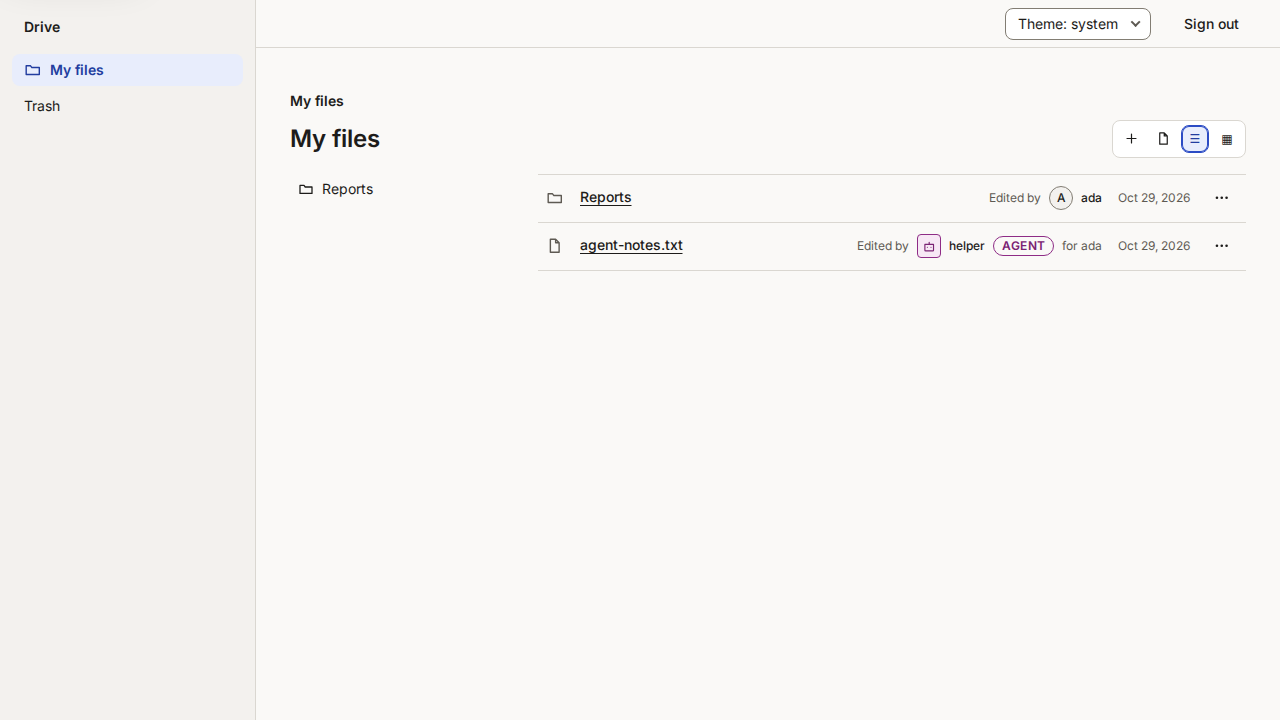
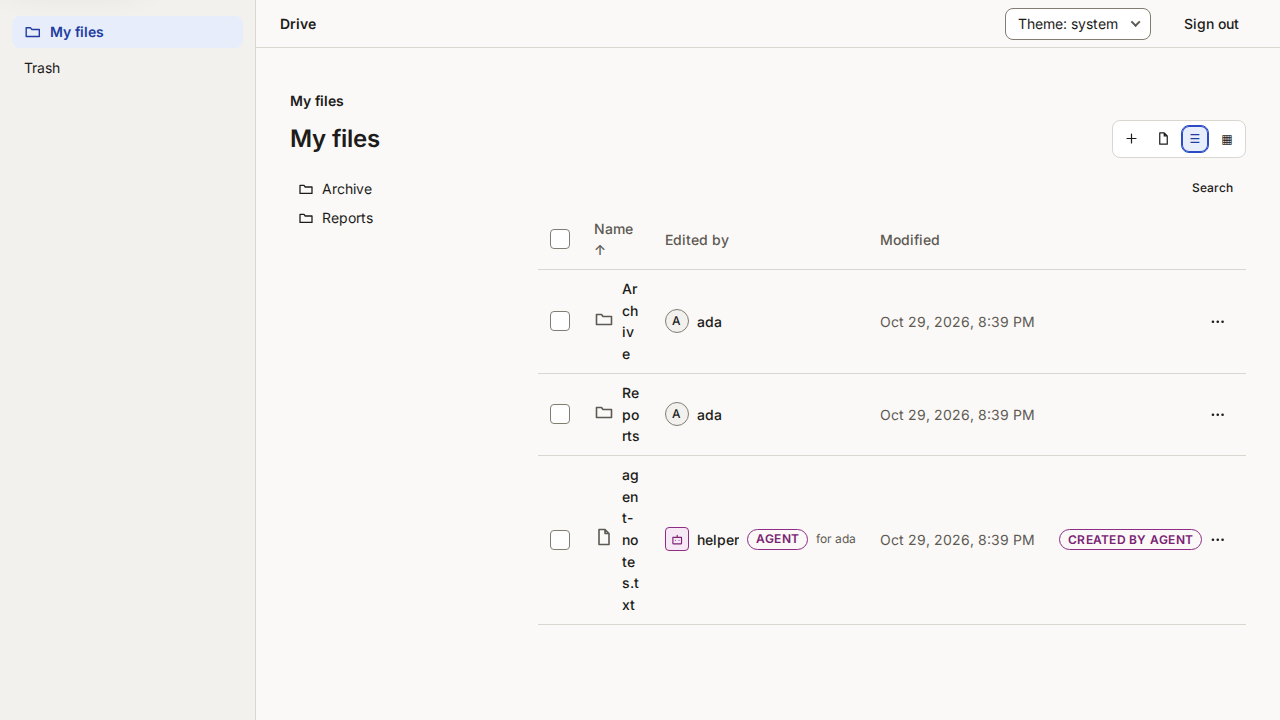
[DRIVE-75] Restyle the web UI as a calm list (#76)
* [DRIVE-75] Restyle the web UI as a calm list

Show files in a table with sortable columns, an expandable search,
check boxes with a bottom bar for bulk trash, a no-match empty state,
and a Share button beside the folder title. Bump to 0.9.0.

* [DRIVE-75] Fix review findings on the list view

Keep focus clear of the bulk bar, return focus after the search
closes, show the trash date, use class hooks for columns, clear the
selection on a view change, announce search results, style the mixed
check box, and survive a bad date.

diff --git a/ui/App.tsx b/ui/App.tsx
@@ -3,6 +3,7 @@ import {
   AppShell, Button, Dialog, DialogClose, EmptyState, FileIcon, FileList, FileRow, FolderIcon, IconButton, Input, Menu, MoreIcon, PlusIcon, PresenceChip,
   Select, ShareDialog, SidebarNav, Toolbar, ToolbarButton, useTheme, useToast, type LinkExpiry, type PresenceEntry, type ShareLink, type ShareRole,
 } from "agentic-design/react";
+import { BulkBar, ExpandableSearch, ItemTable, sortItems, type Sort, type SortKey } from "./browse.js";
 import { createClient, DriveApiError, type DriveClient, type Item, type Role } from "../src/client.js";
 
 const TOKEN_KEY = "agentic-drive-token";
@@ -141,6 +142,9 @@ function Browser({ client, loc, origin }: { client: DriveClient; loc: string; or
   const [dlg, setDlg] = useState<Dlg | null>(null);
   const [drag, setDrag] = useState(false);
   const [busy, setBusy] = useState(false);
+  const [query, setQuery] = useState("");
+  const [sort, setSort] = useState<Sort>({ key: "name", dir: "asc" });
+  const [selected, setSelected] = useState<Set<string>>(new Set());
   const input = useRef<HTMLInputElement>(null);
   const [state, reload] = useLoad(async () => {
     const root = await client.stat("/");
@@ -175,13 +179,28 @@ function Browser({ client, loc, origin }: { client: DriveClient; loc: string; or
     setBusy(false);
   };
   const onDrop = (e: DragEvent) => { e.preventDefault(); setDrag(false); if (e.dataTransfer.files.length) void upload(e.dataTransfer.files); };
-  const setViewMode = (v: "list" | "grid") => { localStorage.setItem("agentic-drive-view", v); setView(v); };
+  const onSort = (key: SortKey) => setSort((s) => ({ key, dir: s.key === key && s.dir === "asc" ? "desc" : "asc" }));
+  const trashSelected = async (ids: string[]) => {
+    setBusy(true);
+    const results = await Promise.allSettled(ids.map((id) => client.trash(id)));
+    const failed = results.filter((r) => r.status === "rejected");
+    if (failed.length) toast({ title: `${failed.length} of ${ids.length} items did not move`, description: errorText((failed[0] as PromiseRejectedResult).reason), tone: "danger" });
+    else toast({ title: `Moved ${ids.length} ${ids.length === 1 ? "item" : "items"} to trash`, tone: "success" });
+    setSelected(new Set());
+    setBusy(false);
+    reload();
+  };
+  const setViewMode = (v: "list" | "grid") => {
+    setSelected(new Set()); localStorage.setItem("agentic-drive-view", v); setView(v); };
 
   return (
-    <section onDragOver={(e) => { e.preventDefault(); setDrag(true); }} onDragLeave={(e) => { if (!e.currentTarget.contains(e.relatedTarget as Node | null)) setDrag(false); }} onDrop={onDrop} className={drag ? "drive-drop drive-drop--over" : "drive-drop"} aria-label="Files">
+    <section onDragOver={(e) => { e.preventDefault(); setDrag(true); }} onDragLeave={(e) => { if (!e.currentTarget.contains(e.relatedTarget as Node | null)) setDrag(false); }} onDrop={onDrop} className={`drive-drop${drag ? " drive-drop--over" : ""}${view === "list" && selected.size ? " drive-drop--bulk" : ""}`} aria-label="Files">
       <Status state={state} retry={reload}>
         {state.status === "ok" && (() => {
-          const { folder, root, crumbs, items, tree } = state.data;
+          const { folder, root, crumbs, tree } = state.data;
+          const needle = query.trim().toLowerCase();
+          const items = sortItems(state.data.items.filter((i) => i.name.toLowerCase().includes(needle)), sort);
+          const picked = items.filter((i) => selected.has(i.id)).map((i) => i.id);
           const actions = (item: Item) => (
             <>
               <MachineLabel item={item} />
@@ -214,7 +233,10 @@ function Browser({ client, loc, origin }: { client: DriveClient; loc: string; or
                 </ol>
               </nav>
               <div className="drive-bar">
-                <h1>{folder.id === root.id ? "My files" : folder.name}</h1>
+                <div className="drive-title">
+                  <h1>{folder.id === root.id ? "My files" : folder.name}</h1>
+                  {folder.id !== root.id && <Button variant="secondary" size="sm" onClick={() => setDlg({ kind: "share", item: folder })}>Share</Button>}
+                </div>
                 <Toolbar label="Folder actions">
                   <ToolbarButton label="New folder" icon={<PlusIcon />} onClick={() => setDlg({ kind: "mkdir" })} />
                   <ToolbarButton label="Upload files" icon={<FileIcon />} onClick={() => input.current?.click()} disabled={busy} />
@@ -226,12 +248,14 @@ function Browser({ client, loc, origin }: { client: DriveClient; loc: string; or
               <div className="drive-split">
               <nav aria-label="Folders" className="drive-folders">{level(root.id)}</nav>
               <div>
-              {items.length === 0 ? (
+              <div className="drive-tools"><ExpandableSearch value={query} onChange={setQuery} /></div>
+              <p role="status" className="drive-sr">{needle ? `${items.length} of ${state.data.items.length} items match` : ""}</p>
+              {state.data.items.length === 0 ? (
                 <EmptyState title="This folder is empty" description="Drop files here, or use Upload files." action={<Button onClick={() => input.current?.click()} disabled={busy}>Upload files</Button>} />
+              ) : items.length === 0 ? (
+                <EmptyState title="Nothing matches" description={`No item in this folder has “${query.trim()}” in its name.`} action={<Button onClick={() => setQuery("")}>Clear search</Button>} />
               ) : view === "list" ? (
-                <FileList label={`Items in ${folder.name || "My files"}`}>
-                  {items.map((i) => <FileRow key={i.id} name={i.name} href={href(i)} kind={i.kind === "folder" ? "folder" : "file"} modified={new Date(i.updatedAt)} editedBy={who(i.updatedBy, i.owner)} actions={actions(i)} />)}
-                </FileList>
+                <ItemTable label={`Items in ${folder.name || "My files"}`} items={items} sort={sort} onSort={onSort} selected={selected} onSelect={setSelected} href={href} who={who} actions={actions} />
               ) : (
                 <ul className="drive-grid" aria-label={`Items in ${folder.name || "My files"}`}>
                   {items.map((i) => (
@@ -246,6 +270,7 @@ function Browser({ client, loc, origin }: { client: DriveClient; loc: string; or
               )}
               </div>
               </div>
+              {view === "list" && <BulkBar count={picked.length} busy={busy} onTrash={() => void trashSelected(picked)} onClear={() => setSelected(new Set())} />}
               {dlg?.kind === "mkdir" && <Prompt open title="New folder" label="Folder name" initial="" submit="Create" onClose={() => setDlg(null)} onSubmit={(name) => act(() => client.mkdir(folder.id === root.id ? `/${name}` : `${folder.id}/${name}`), `Created ${name}`)} />}
               {dlg?.kind === "rename" && <Prompt open title="Rename" label="New name" initial={dlg.item.name} submit="Rename" onClose={() => setDlg(null)} onSubmit={(name) => act(() => client.move(dlg.item.id, dlg.item.parentId, { name }), `Renamed to ${name}`)} />}
               {dlg?.kind === "move" && <MoveDialog client={client} item={dlg.item} onClose={() => setDlg(null)} onMove={(to) => act(() => client.move(dlg.item.id, to), `Moved ${dlg.item.name}`)} />}
@@ -352,9 +377,13 @@ function Sharing({ client, item, origin, onClose }: { client: DriveClient; item:
   );
 }
 
+const trashedAt = (i: Item) => i.trashedAt ?? i.updatedAt;
+
 function TrashView({ client }: { client: DriveClient }) {
   const toast = useToast();
   const [state, reload] = useLoad(() => client.listTrash());
+  const [sort, setSort] = useState<Sort>({ key: "name", dir: "asc" });
+  const onSort = (key: SortKey) => setSort((s) => ({ key, dir: s.key === key && s.dir === "asc" ? "desc" : "asc" }));
   const restore = async (i: Item) => {
     try { await client.restore(i.id, { onConflict: "rename" }); toast({ title: `Restored ${i.name}`, tone: "success" }); } catch (e) { toast({ title: "Could not restore", description: errorText(e), tone: "danger" }); }
     reload();
@@ -364,9 +393,7 @@ function TrashView({ client }: { client: DriveClient }) {
       <h1>Trash</h1>
       <Status state={state} retry={reload}>
         {state.status === "ok" && (state.data.length === 0 ? <EmptyState title="The trash is empty" description="Items you move to the trash show up here." /> : (
-          <FileList label="Items in the trash">
-            {[...state.data].sort(byName).map((i) => <FileRow key={i.id} name={i.name} href="#/trash" kind={i.kind === "folder" ? "folder" : "file"} modified={new Date(i.trashedAt ?? i.updatedAt)} editedBy={who(i.updatedBy, i.owner)} actions={<><MachineLabel item={i} /><Button size="sm" onClick={() => void restore(i)}>{`Restore ${i.name}`}</Button></>} />)}
-          </FileList>
+          <ItemTable label="Items in the trash" items={sortItems(state.data, sort, trashedAt)} dateOf={trashedAt} sort={sort} onSort={onSort} href={() => "#/trash"} who={who} actions={(i) => <><MachineLabel item={i} /><Button size="sm" onClick={() => void restore(i)}>{`Restore ${i.name}`}</Button></>} />
         ))}
       </Status>
     </section>
@@ -413,12 +440,14 @@ function SharedView({ client, id, linkToken }: { client: DriveClient; id: string
       <Status state={state} retry={reload}>
         {state.status === "ok" && (
           <>
-            <h1>{state.data.item.name}</h1>
+            <div className="drive-bar">
+              <div className="drive-title"><h1>{state.data.item.name}</h1><MachineLabel item={state.data.item} /></div>
+              {state.data.item.kind !== "folder" && <Button onClick={() => void save()}>Download</Button>}
+            </div>
             <p className="drive-muted">Shared with you.</p>
-            <MachineLabel item={state.data.item} />
             {state.data.item.kind === "folder"
               ? (state.data.items.length === 0 ? <EmptyState title="This folder is empty" /> : <FileList label="Shared items">{state.data.items.map((i) => <FileRow key={i.id} name={i.name} href={`#/s/${i.id}${linkToken ? `/${linkToken}` : ""}`} kind={i.kind === "folder" ? "folder" : "file"} modified={new Date(i.updatedAt)} editedBy={who(i.updatedBy, i.owner)} actions={<MachineLabel item={i} />} />)}</FileList>)
-              : <Button onClick={() => void save()}>Download</Button>}
+              : null}
           </>
         )}
       </Status>

diff --git a/ui/browse.tsx b/ui/browse.tsx
@@ -1,0 +1,132 @@
+import { useEffect, useRef, useState, type ReactNode } from "react";
+import { Button, FileIcon, FolderIcon, PresenceChip, type PresenceEntry } from "agentic-design/react";
+import type { Item } from "../src/client.js";
+
+export type SortKey = "name" | "modified";
+/** The time a row shows and sorts by. */
+export type DateOf = (i: Item) => number;
+export type Sort = { key: SortKey; dir: "asc" | "desc" };
+
+/** Folders first, then the chosen column. A name sort keeps natural order for numbers. */
+export function sortItems(items: Item[], { key, dir }: Sort, dateOf: DateOf = (i) => i.updatedAt): Item[] {
+  const sign = dir === "asc" ? 1 : -1;
+  const by = key === "name" ? (a: Item, b: Item) => a.name.localeCompare(b.name, undefined, { numeric: true }) : (a: Item, b: Item) => dateOf(a) - dateOf(b);
+  return [...items].sort((a, b) => (a.kind === "folder" ? 0 : 1) - (b.kind === "folder" ? 0 : 1) || sign * by(a, b) || a.name.localeCompare(b.name));
+}
+
+/** A time that a bad value cannot break: a number outside the date range shows a dash. */
+function Stamp({ at }: { at: number }) {
+  const d = new Date(at);
+  return Number.isFinite(d.getTime()) ? <time dateTime={d.toISOString()}>{dateFormat.format(d)}</time> : <span>—</span>;
+}
+
+const dateFormat = new Intl.DateTimeFormat(undefined, { dateStyle: "medium", timeStyle: "short" });
+
+/** A search that opens from a button, filters by name, and closes on Escape. */
+export function ExpandableSearch({ value, onChange }: { value: string; onChange: (v: string) => void }) {
+  const [open, setOpen] = useState(false);
+  const input = useRef<HTMLInputElement>(null);
+  const trigger = useRef<HTMLButtonElement>(null);
+  const restore = useRef(false);
+  const shown = open || !!value;
+  useEffect(() => {
+    if (shown) input.current?.focus();
+    else if (restore.current) { restore.current = false; trigger.current?.focus(); }
+  }, [shown]);
+  const close = () => { restore.current = true; onChange(""); setOpen(false); };
+  if (!shown) {
+    return <Button ref={trigger} variant="ghost" size="sm" onClick={() => setOpen(true)}>Search</Button>;
+  }
+  return (
+    <div className="drive-search" role="search">
+      <input
+        ref={input} type="search" className="drive-search__input" aria-label="Search this folder" placeholder="Search this folder" value={value}
+        onChange={(e) => onChange(e.target.value)} onKeyDown={(e) => { if (e.key === "Escape") close(); }}
+      />
+      <Button variant="ghost" size="sm" onClick={close}>Close search</Button>
+    </div>
+  );
+}
+
+type TableProps = {
+  label: string;
+  items: Item[];
+  sort: Sort;
+  onSort: (key: SortKey) => void;
+  /** Leave out `onSelect` for a table with no select column. */
+  selected?: Set<string>;
+  onSelect?: (ids: Set<string>) => void;
+  href: (i: Item) => string;
+  who: (a: Item["updatedBy"], owner: string) => PresenceEntry;
+  actions: (i: Item) => ReactNode;
+  /** Defaults to the time of the last edit. */
+  dateOf?: DateOf;
+};
+
+/** The list view: a table with a select column, sortable headers, and a row menu. */
+export function ItemTable({ label, items, sort, onSort, selected = new Set(), onSelect, href, who, actions, dateOf = (i) => i.updatedAt }: TableProps) {
+  const all = items.length > 0 && items.every((i) => selected.has(i.id));
+  const some = !all && items.some((i) => selected.has(i.id));
+  const head = useRef<HTMLInputElement>(null);
+  useEffect(() => { if (head.current) head.current.indeterminate = some; }, [some]);
+  const toggle = (id: string, on: boolean) => {
+    if (!onSelect) return;
+    const next = new Set(selected);
+    if (on) next.add(id); else next.delete(id);
+    onSelect(next);
+  };
+  const th = (key: SortKey, text: string, cls?: string) => (
+    <th scope="col" className={cls} aria-sort={sort.key === key ? (sort.dir === "asc" ? "ascending" : "descending") : "none"}>
+      <button type="button" className="drive-sort" onClick={() => onSort(key)}>{text}<span aria-hidden="true">{sort.key === key ? (sort.dir === "asc" ? " ↑" : " ↓") : ""}</span></button>
+    </th>
+  );
+  return (
+    <table className="drive-table" aria-label={label}>
+      <thead>
+        <tr>
+          {onSelect && (
+            <th scope="col" className="drive-table__check">
+              <input ref={head} type="checkbox" className="agd-checkbox" aria-label="Select all items" checked={all} onChange={(e) => onSelect(e.target.checked ? new Set(items.map((i) => i.id)) : new Set())} />
+            </th>
+          )}
+          {th("name", "Name")}
+          <th scope="col" className="drive-table__who">Edited by</th>
+          {th("modified", "Modified", "drive-table__date")}
+          <th scope="col"><span className="drive-sr">Actions</span></th>
+        </tr>
+      </thead>
+      <tbody>
+        {items.map((i) => (
+          <tr key={i.id} className="drive-row" data-selected={selected.has(i.id) || undefined}>
+            {onSelect && (
+              <td className="drive-table__check">
+                <input type="checkbox" className="agd-checkbox" aria-label={`Select ${i.name}`} checked={selected.has(i.id)} onChange={(e) => toggle(i.id, e.target.checked)} />
+              </td>
+            )}
+            <td>
+              <div className="drive-table__name">
+                <span className="drive-table__icon" aria-hidden="true">{i.kind === "folder" ? <FolderIcon /> : <FileIcon />}</span>
+                <a href={href(i)}>{i.name}</a>
+              </div>
+            </td>
+            <td className="drive-table__who"><PresenceChip entry={who(i.updatedBy, i.owner)} /></td>
+            <td className="drive-table__date"><Stamp at={dateOf(i)} /></td>
+            <td className="drive-table__actions">{actions(i)}</td>
+          </tr>
+        ))}
+      </tbody>
+    </table>
+  );
+}
+
+/** Sticks to the bottom of the page while rows are selected. */
+export function BulkBar({ count, busy, onTrash, onClear }: { count: number; busy: boolean; onTrash: () => void; onClear: () => void }) {
+  if (count === 0) return null;
+  return (
+    <div role="region" aria-label="Selected items" className="drive-bulk">
+      <span role="status">{count} selected</span>
+      <Button variant="danger" size="sm" onClick={onTrash} disabled={busy}>Move to trash</Button>
+      <Button variant="ghost" size="sm" onClick={onClear}>Clear selection</Button>
+    </div>
+  );
+}

diff --git a/ui/app.css b/ui/app.css
@@ -27,3 +27,28 @@
 .drive-card__actions { display: flex; align-items: center; justify-content: space-between; gap: var(--agd-space-2); }
 .drive-root { display: grid; grid-template-columns: 12rem minmax(0, 1fr); gap: var(--agd-space-6); color: var(--agd-color-text); }
 @media (max-width: 48rem) { .drive-root { grid-template-columns: 1fr; } }
+.drive-sr { position: absolute; width: 1px; height: 1px; overflow: hidden; clip-path: inset(50%); white-space: nowrap; }
+.drive-tools { display: flex; justify-content: flex-end; margin-bottom: var(--agd-space-2); }
+.drive-search { display: flex; align-items: center; gap: var(--agd-space-2); }
+.drive-search__input { min-width: 14rem; min-height: 2.25rem; padding: 0 var(--agd-space-3); border: 1px solid var(--agd-color-border); border-radius: var(--agd-radius-md); background: var(--agd-color-surface); color: var(--agd-color-text); font: inherit; }
+.drive-search__input:focus-visible, .drive-sort:focus-visible { outline: 2px solid var(--agd-color-accent); outline-offset: 2px; }
+.drive-table { width: 100%; border-collapse: collapse; }
+.drive-table th { padding: var(--agd-space-2) var(--agd-space-3); text-align: left; font-size: var(--agd-font-size-sm); font-weight: var(--agd-font-weight-medium); color: var(--agd-color-text-muted); border-bottom: 1px solid var(--agd-color-border); }
+.drive-table td { padding: var(--agd-space-2) var(--agd-space-3); border-bottom: 1px solid var(--agd-color-border); vertical-align: middle; }
+.drive-table .drive-table__date { color: var(--agd-color-text-muted); white-space: nowrap; }
+.drive-table__check { width: 2.5rem; }
+.drive-table__name { display: flex; align-items: center; gap: var(--agd-space-2); overflow-wrap: anywhere; }
+.drive-table__name a { color: var(--agd-color-text); font-weight: var(--agd-font-weight-medium); text-decoration: none; }
+.drive-table__name a:hover { text-decoration: underline; }
+.drive-table__icon svg { width: 1.25rem; height: 1.25rem; color: var(--agd-color-text-muted); }
+.drive-table__actions > * { vertical-align: middle; }
+.drive-table__actions { text-align: right; white-space: nowrap; }
+.drive-row:hover, .drive-row[data-selected] { background: var(--agd-color-surface-sunken); }
+.drive-sort { all: unset; cursor: pointer; border-radius: var(--agd-radius-sm); }
+.drive-bulk { position: fixed; inset: auto 0 var(--agd-space-4); margin-inline: auto; width: max-content; max-width: calc(100vw - 2rem); display: flex; align-items: center; gap: var(--agd-space-3); padding: var(--agd-space-2) var(--agd-space-4); border: 1px solid var(--agd-color-border); border-radius: var(--agd-radius-md); background: var(--agd-color-surface); box-shadow: 0 4px 16px rgb(0 0 0 / 0.16); z-index: 20; }
+@media (max-width: 40rem) { .drive-table .drive-table__who { display: none; } }
+.drive-title { display: flex; align-items: center; gap: var(--agd-space-3); flex-wrap: wrap; min-width: 0; }
+.drive-title h1 { margin: 0; }
+.drive-drop--bulk { padding-bottom: 6rem; }
+html:has(.drive-bulk) { scroll-padding-bottom: 6rem; }
+.agd-checkbox:indeterminate { background-color: var(--agd-color-accent); border-color: var(--agd-color-accent); background-image: linear-gradient(var(--agd-color-surface), var(--agd-color-surface)); background-size: 60% 2px; background-repeat: no-repeat; background-position: center; }

diff --git a/e2e/drive.spec.ts b/e2e/drive.spec.ts
@@ -19,7 +19,7 @@ async function audit(page: Page, name: string) {
   await page.emulateMedia({ colorScheme: "light" });
 }
 
-const row = (page: Page, name: string) => page.locator(".agd-file-row").filter({ has: page.getByRole("link", { name, exact: true }) });
+const row = (page: Page, name: string) => page.locator(".drive-row").filter({ has: page.getByRole("link", { name, exact: true }) });
 async function pick(page: Page, name: string, action: string) {
   await page.getByRole("button", { name: `Actions for ${name}` }).click();
   await page.getByRole("menuitem", { name: action, exact: true }).click();
@@ -182,4 +182,46 @@ test("an error from the server shows a message and a retry", async ({ page }) =>
   await page.unroute("**/api/v1/drive/**");
   await page.getByRole("button", { name: "Try again" }).click();
   await expect(page.getByRole("region", { name: "Files" })).toBeVisible();
+});
+
+test("a person searches, sorts, and moves many items to the trash at once", async ({ page }) => {
+  const ada = createClient({ baseUrl: `http://127.0.0.1:${process.env.DRIVE_UI_PORT}`, token: ADA });
+  await ada.upload("/zeta.txt", "z", { mime: "text/plain" });
+  await ada.upload("/alpha.txt", "a", { mime: "text/plain" });
+  await page.goto("/");
+  await page.getByLabel("Access token").fill(ADA);
+  await page.getByRole("button", { name: "Sign in" }).click();
+  const names = () => page.locator(".drive-row .drive-table__name a").allTextContents();
+
+  await page.getByRole("button", { name: "Search", exact: true }).click();
+  await page.getByRole("searchbox", { name: "Search this folder" }).fill("zeta");
+  await expect(row(page, "zeta.txt")).toBeVisible();
+  await expect(row(page, "alpha.txt")).toHaveCount(0);
+  await page.getByRole("searchbox", { name: "Search this folder" }).fill("no-such-item");
+  await expect(page.getByText("Nothing matches")).toBeVisible();
+  await audit(page, "12-search-empty");
+  await page.keyboard.press("Escape");
+  await expect(row(page, "alpha.txt")).toBeVisible();
+  await expect(page.getByRole("button", { name: "Search", exact: true })).toBeFocused();
+
+  const files = async () => (await names()).filter((n) => n.endsWith(".txt"));
+  expect((await files()).indexOf("alpha.txt")).toBeLessThan((await files()).indexOf("zeta.txt"));
+  await page.getByRole("button", { name: "Name" }).click();
+  await expect(page.getByRole("columnheader", { name: /Name/ })).toHaveAttribute("aria-sort", "descending");
+  expect((await files()).indexOf("zeta.txt")).toBeLessThan((await files()).indexOf("alpha.txt"));
+
+  await page.getByLabel("Select zeta.txt").check();
+  await page.getByLabel("Select alpha.txt").check();
+  const bar = page.getByRole("region", { name: "Selected items" });
+  await expect(bar).toContainText("2 selected");
+  await page.getByRole("button", { name: "Grid view" }).click();
+  await expect(bar).toBeHidden();
+  await page.getByRole("button", { name: "List view" }).click();
+  await page.getByLabel("Select zeta.txt").check();
+  await page.getByLabel("Select alpha.txt").check();
+  await audit(page, "13-bulk");
+  await bar.getByRole("button", { name: "Move to trash" }).click();
+  await expect(row(page, "zeta.txt")).toHaveCount(0);
+  await expect(row(page, "alpha.txt")).toHaveCount(0);
+  await expect(bar).toBeHidden();
 });

diff --git a/e2e/embed.spec.ts b/e2e/embed.spec.ts
@@ -44,7 +44,7 @@ test("the package UI mounts in a host page and works against the server", async 
   await openHost(page);
   await page.evaluate((token) => (window as unknown as { start(t: string): void }).start(token), ADA);
   const drive = page.locator("#drive");
-  const files = drive.locator(".agd-file-row");
+  const files = drive.locator(".drive-row");
   await expect(files.getByRole("link", { name: "embed-docs", exact: true })).toBeVisible();
   await expect(drive.getByText("Created by agent", { exact: true }).first()).toBeVisible();
 

diff --git a/CHANGELOG.md b/CHANGELOG.md
@@ -1,5 +1,11 @@
 # Changelog
 
+## 0.9.0
+
+### Changed
+
+- **The web UI has a calm list view.** Files show in a table with sortable Name and Modified columns, a search that opens from a button, and a Share button next to the title of a folder. Select rows with the check boxes to see a bar at the bottom of the page that moves them all to the trash. A search with no match has its own empty state. The design classes in the list view are now `drive-*` classes of the app, not `agd-file-*` classes.
+
 ## 0.8.0
 
 Read the breaking changes before you upgrade.

diff --git a/README.md b/README.md
@@ -7,7 +7,7 @@
 
 Store, sort, and share files and folders.
 
-> Status: 0.8.0, early. The library, CLI, MCP server, and HTTP API work, with sharing in the SDK, the HTTP API, the CLI, and the MCP server.
+> Status: 0.9.0, early. The library, CLI, MCP server, and HTTP API work, with sharing in the SDK, the HTTP API, the CLI, and the MCP server.
 > A small web UI works. See [UI](#ui).
 
 ## Live demo
